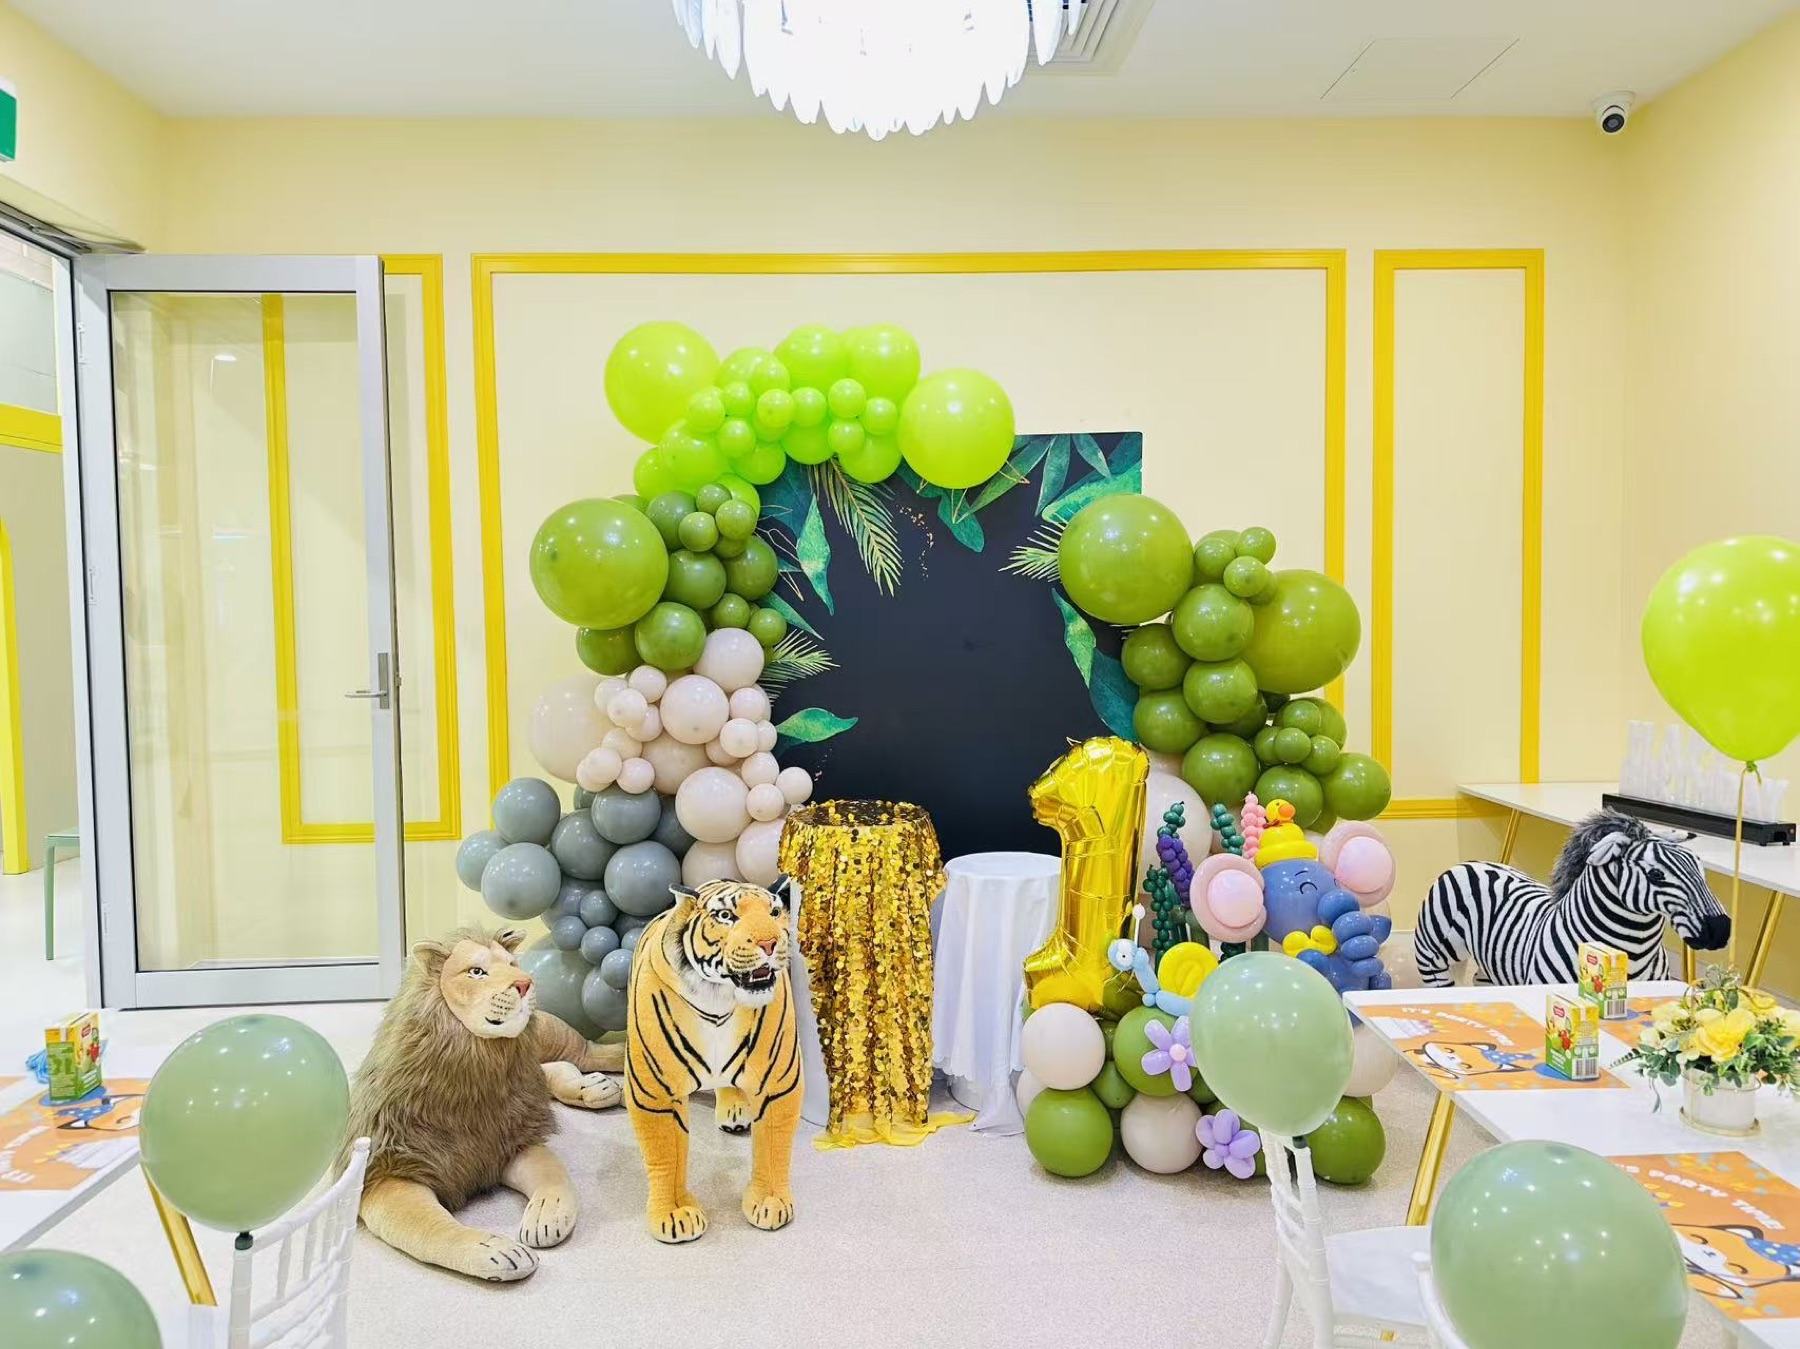
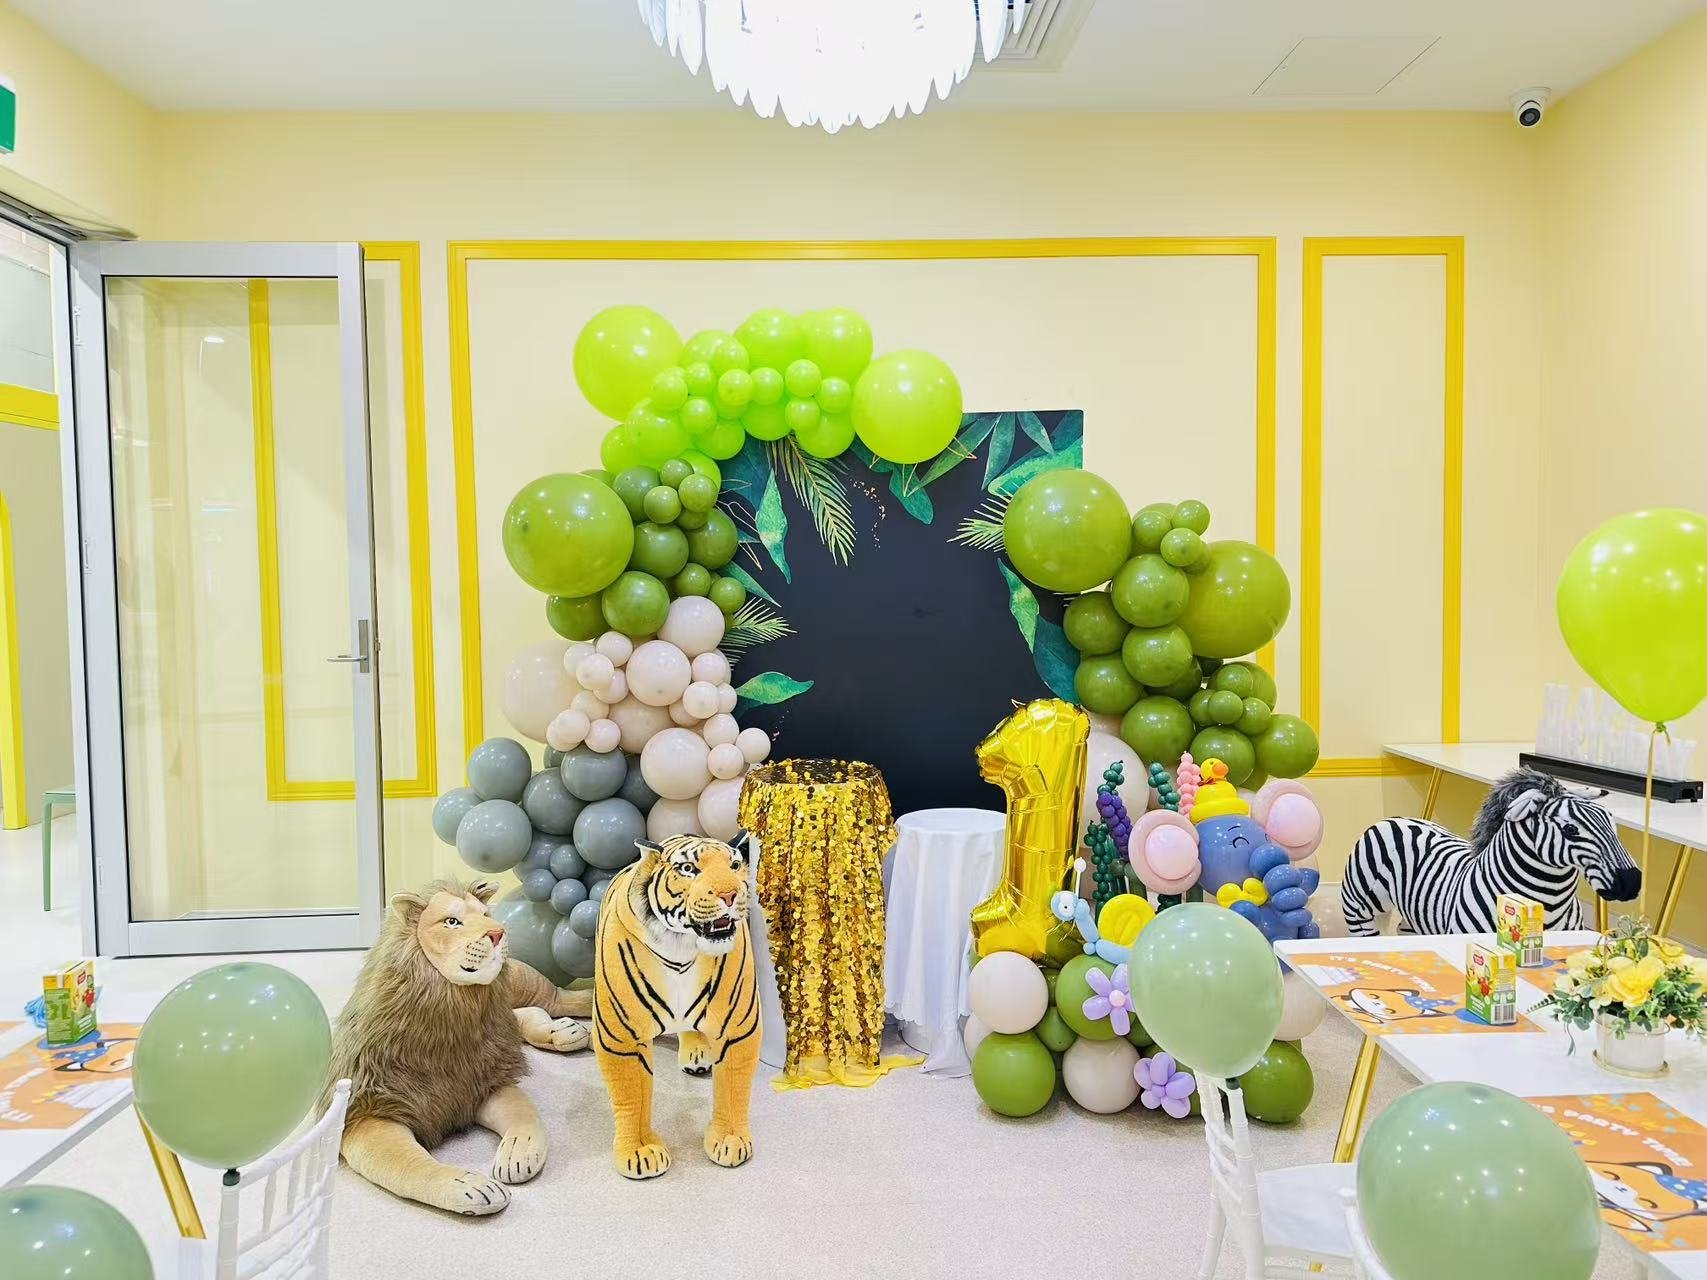
Replace Canberra showcase photos

diff --git a/templates/package_showcase/canberra.html b/templates/package_showcase/canberra.html
@@ -4,7 +4,7 @@
 {% block title %}Canberra package showcase · Little Amigos Workspace{% endblock %}
 
 {% block body %}
-<link rel="stylesheet" href="{% static 'css/package_showcase.css' %}?v=20261009-2">
+<link rel="stylesheet" href="{% static 'css/package_showcase.css' %}?v=20261009-3">
 {% include "accounts/_header.html" %}
 <main class="showcase-shell" data-package-showcase>
   <header class="showcase-hero">
@@ -31,7 +31,7 @@
         {% for package in packages %}
           <div class="showcase-gallery gallery-set" data-gallery="{{ package.key }}"{% if not forloop.first %} hidden{% endif %}>
             {% for photo in package.photos %}
-              <figure class="showcase-photo"><img src="{% static photo %}?v=20261009-2" alt="{{ package.label }} setup example {{ forloop.counter }}" loading="lazy"></figure>
+              <figure class="showcase-photo"><img src="{% static photo %}?v=20261009-3" alt="{{ package.label }} setup example {{ forloop.counter }}" loading="lazy"></figure>
             {% endfor %}
           </div>
         {% endfor %}
@@ -110,8 +110,8 @@
             <label class="addon-option"><input type="checkbox" value="Custom theme" data-addon-price="250" data-custom-theme-toggle><span><b>Custom theme</b><small>Open the examples below when selected.</small></span><strong>$250</strong></label>
           </div>
             <div class="custom-theme-gallery" data-custom-theme-gallery hidden>
-              <figure class="showcase-photo"><img src="{% static 'package_showcase/canberra/custom-1.jpg' %}?v=20261009-2" alt="Custom theme example 1" loading="lazy"></figure>
-              <figure class="showcase-photo"><img src="{% static 'package_showcase/canberra/custom-2.jpg' %}?v=20261009-2" alt="Custom theme example 2" loading="lazy"></figure>
+              <figure class="showcase-photo"><img src="{% static 'package_showcase/canberra/custom-1.jpg' %}?v=20261009-3" alt="Custom theme example 1" loading="lazy"></figure>
+              <figure class="showcase-photo"><img src="{% static 'package_showcase/canberra/custom-2.jpg' %}?v=20261009-3" alt="Custom theme example 2" loading="lazy"></figure>
             </div>
           </section>
           <section class="addon-group"><h3>Customized cake</h3><div class="addon-options">
